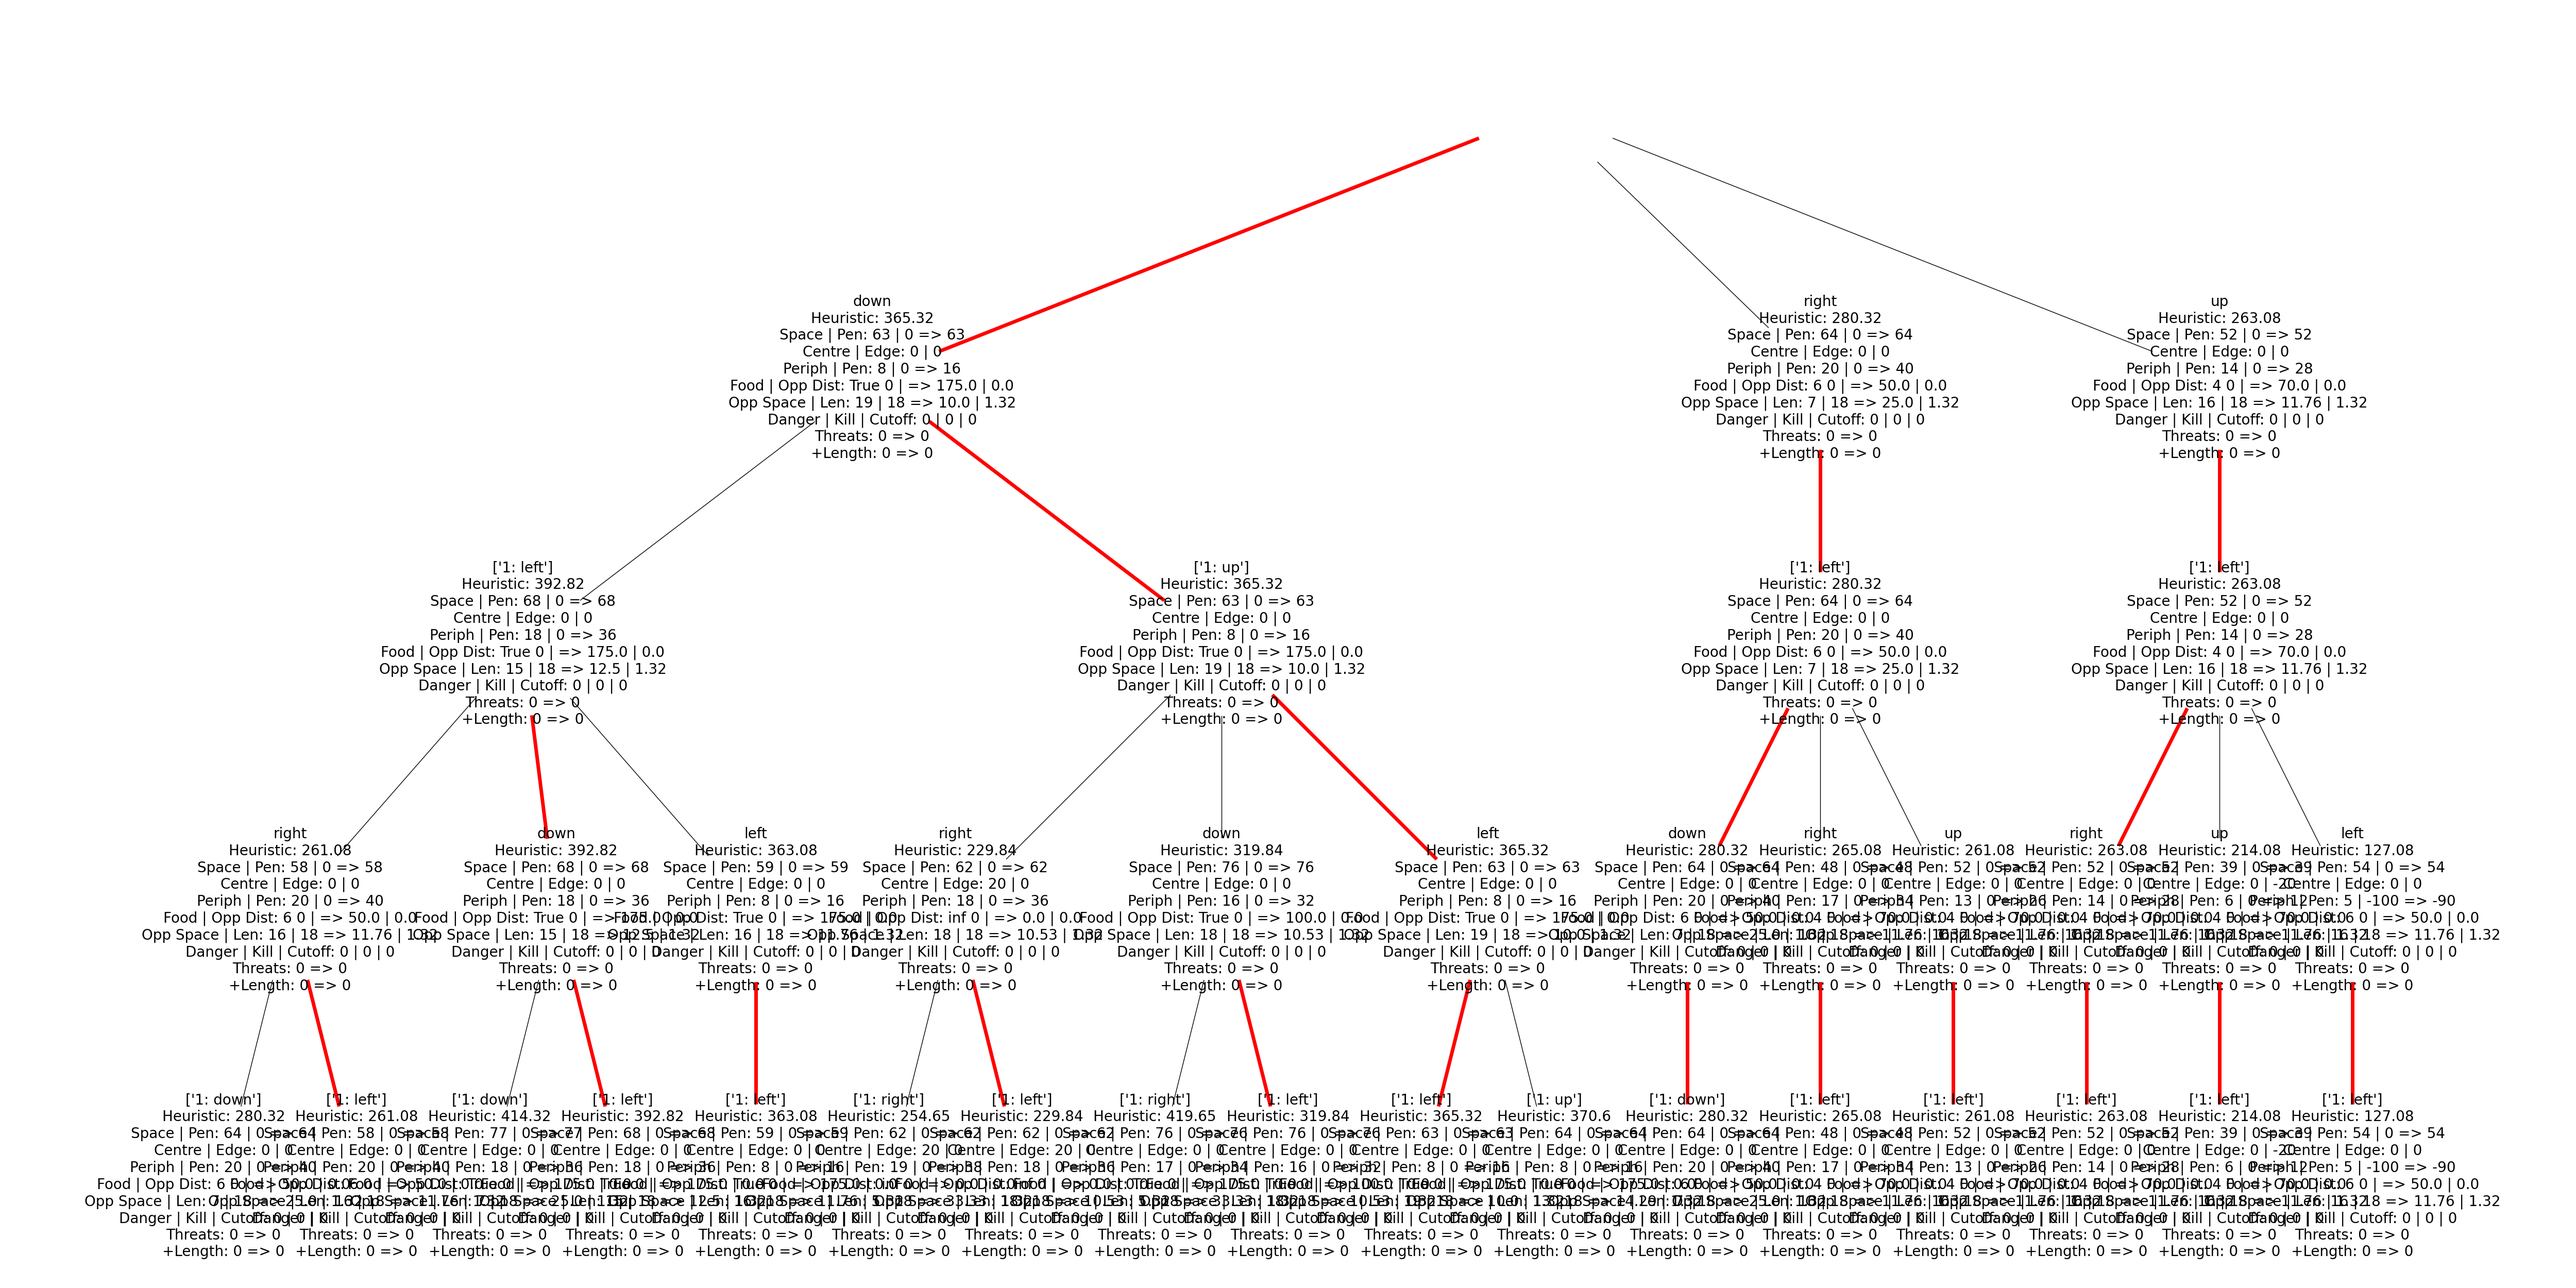
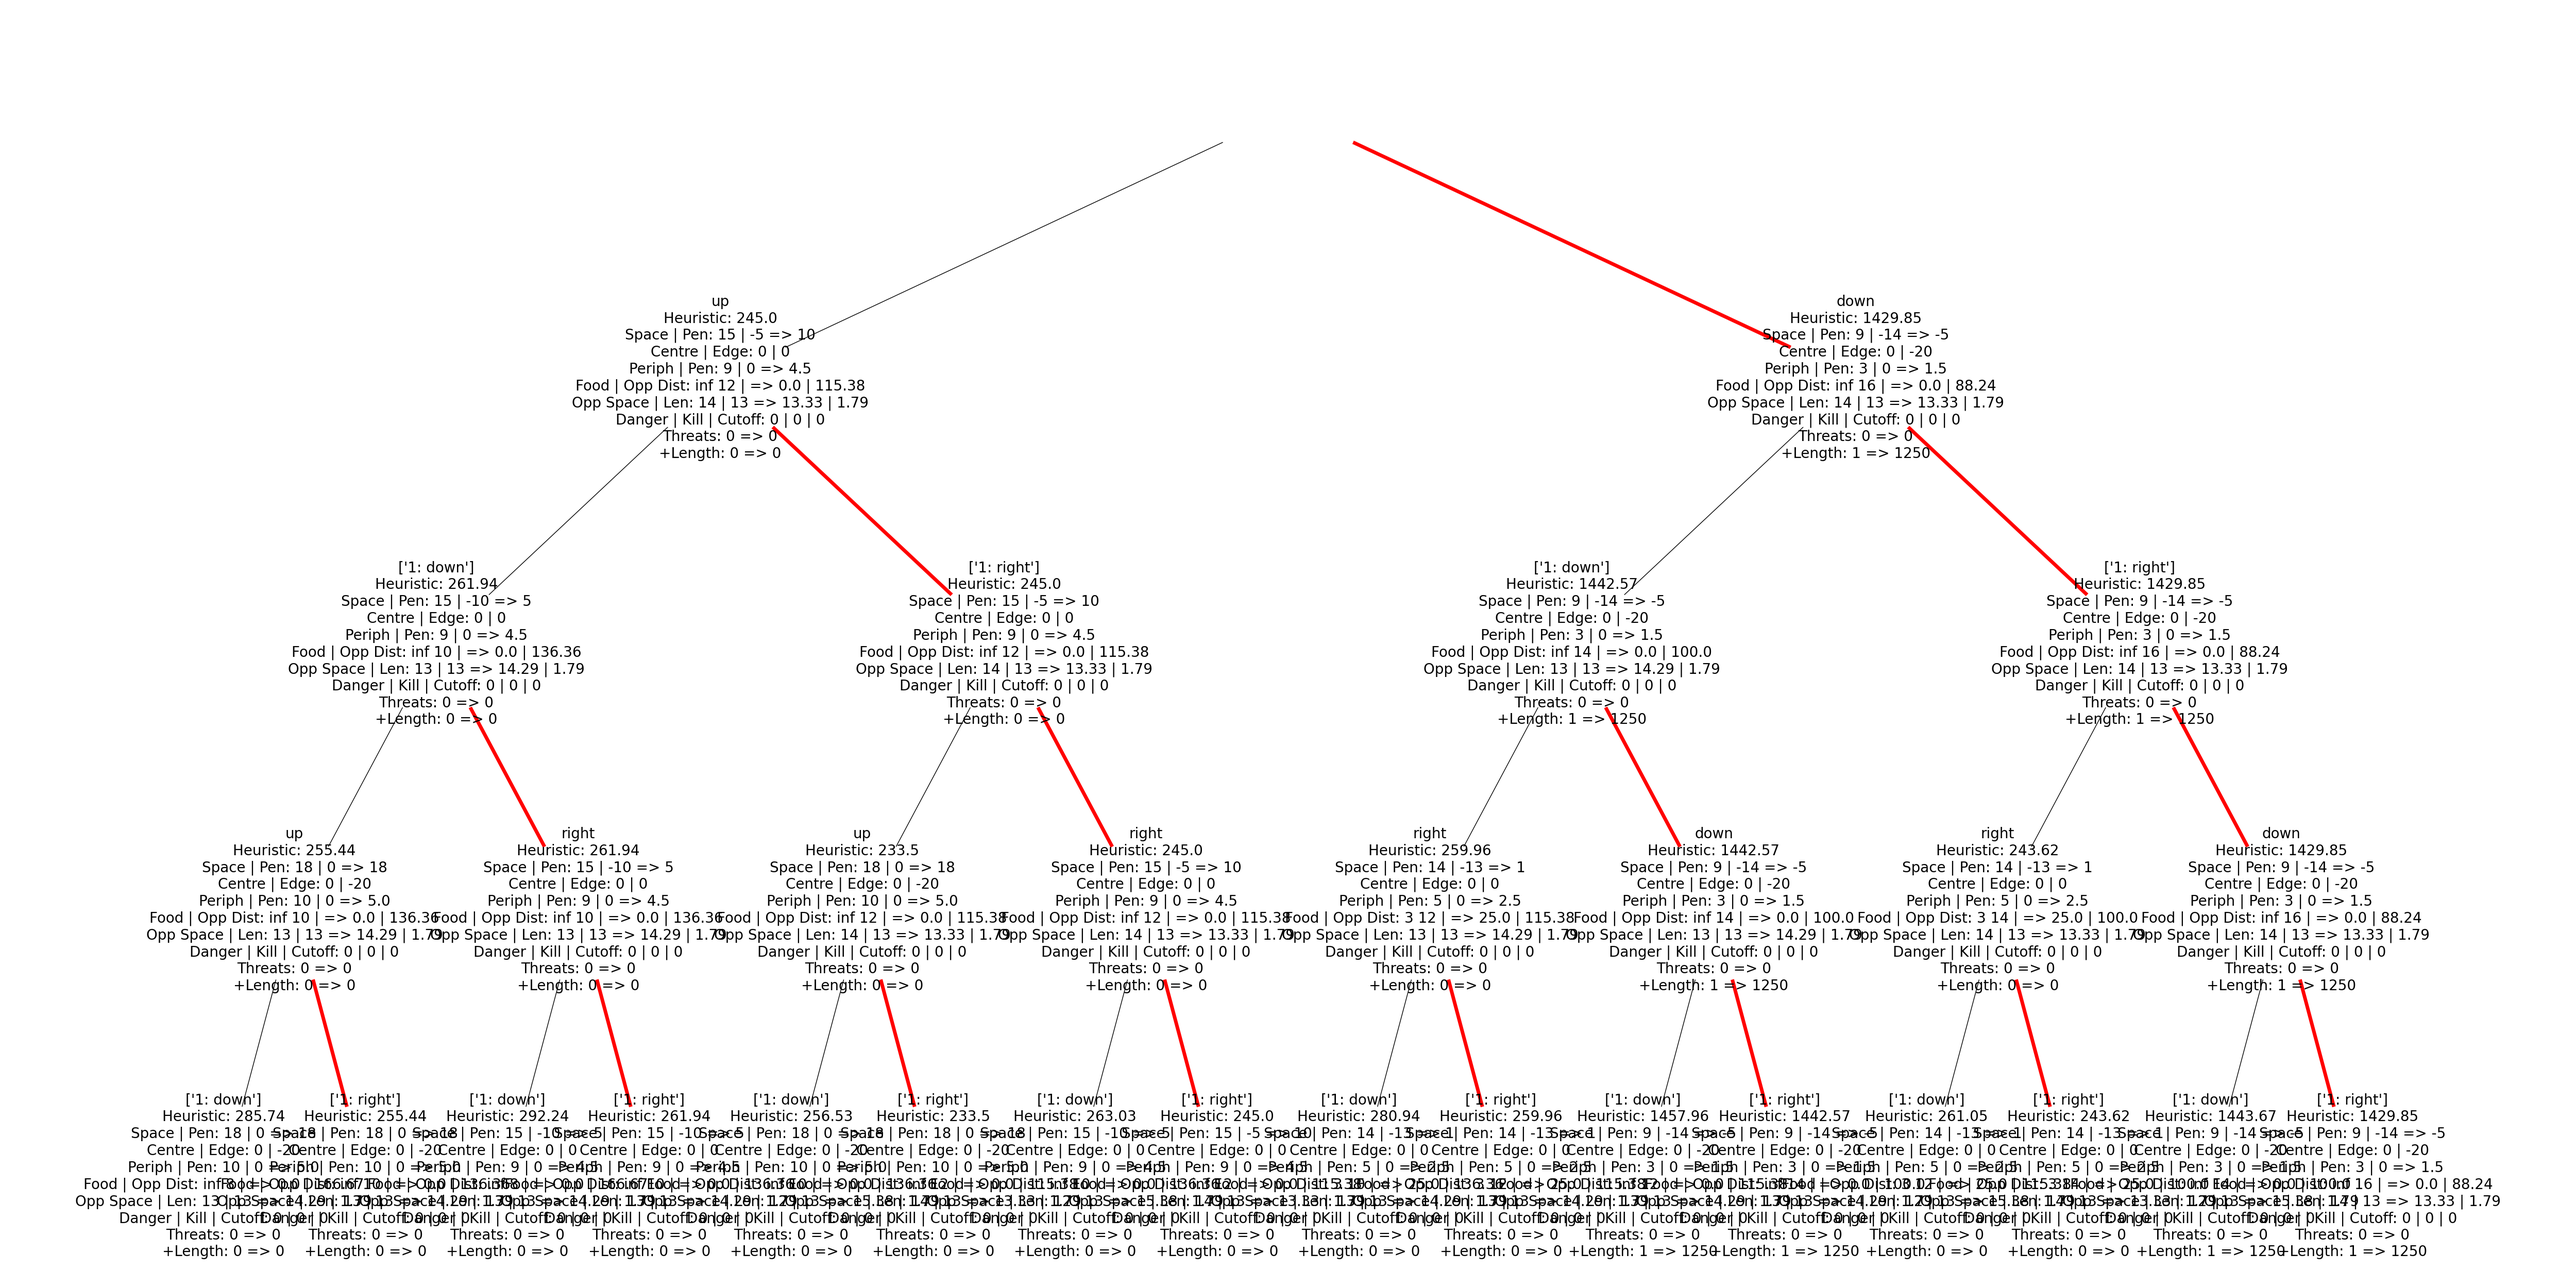
Weird edge case timeout with food

diff --git a/battlesnake_test.py b/battlesnake_test.py
@@ -2,8 +2,7 @@ from snake_engine import *
 
 game_state={"game":{"id":"d07d4832-3fbc-4df7-bc1f-84909baa01a2","ruleset":{"name":"standard","version":"cli","settings":{"foodSpawnChance":15,"minimumFood":1,"hazardDamagePerTurn":14,"hazardMap":"","hazardMapAuthor":"","royale":{"shrinkEveryNTurns":25},"squad":{"allowBodyCollisions":False,"sharedElimination":False,"sharedHealth":False,"sharedLength":False}}},"map":"standard","timeout":500,"source":""},"turn":8,"board":{"height":11,"width":11,"snakes":[{"id":"794984a9-316f-437a-a5e7-123afa1799b9","name":"Rick2","latency":"150","health":98,"body":[{"x":3,"y":1},{"x":2,"y":1},{"x":2,"y":0},{"x":1,"y":0}],"head":{"x":3,"y":1},"length":4,"shout":"","squad":"","customizations":{"color":"#00ff00","head":"shark","tail":"coffee"}},{"id":"a8d162b1-df10-4523-829b-6c751989810c","name":"Rick3","latency":"212","health":100,"body":[{"x":10,"y":6},{"x":10,"y":7},{"x":10,"y":8},{"x":10,"y":9},{"x":10,"y":9}],"head":{"x":10,"y":6},"length":5,"shout":"","squad":"","customizations":{"color":"#00ff00","head":"shark","tail":"coffee"}},{"id":"c653eaec-5707-482a-abf2-702d6ba76fd7","name":"JonK","latency":"22","health":96,"body":[{"x":5,"y":1},{"x":4,"y":1},{"x":4,"y":0},{"x":5,"y":0},{"x":6,"y":0}],"head":{"x":5,"y":1},"length":5,"shout":"","squad":"","customizations":{"color":"#B7410E","head":"sleepy","tail":"offroad"}},{"id":"bbf93a5d-e566-49dd-81f6-3bea14ecc43e","name":"JonK3","latency":"21","health":98,"body":[{"x":0,"y":8},{"x":0,"y":9},{"x":1,"y":9},{"x":1,"y":8},{"x":2,"y":8}],"head":{"x":0,"y":8},"length":5,"shout":"","squad":"","customizations":{"color":"#B7410E","head":"sleepy","tail":"offroad"}},{"id":"5c1999e6-c1be-4593-839a-4c50cd971c20","name":"Rick4","latency":"199","health":100,"body":[{"x":5,"y":5},{"x":5,"y":4},{"x":5,"y":3},{"x":5,"y":3}],"head":{"x":5,"y":5},"length":4,"shout":"","squad":"","customizations":{"color":"#00ff00","head":"shark","tail":"coffee"}},{"id":"86b77068-eaf5-46ff-a934-be44318ca9ba","name":"Nightwing","latency":"480","health":94,"body":[{"x":7,"y":7},{"x":7,"y":8},{"x":8,"y":8},{"x":8,"y":9}],"head":{"x":7,"y":7},"length":4,"shout":"","squad":"","customizations":{"color":"#3333ff","head":"ski","tail":"mystic-moon"}},{"id":"d4972a83-7849-4d3f-be9b-1208252347df","name":"Rick","latency":"221","health":92,"body":[{"x":9,"y":5},{"x":9,"y":6},{"x":8,"y":6}],"head":{"x":9,"y":5},"length":3,"shout":"","squad":"","customizations":{"color":"#00ff00","head":"shark","tail":"coffee"}},{"id":"f1a83c20-e9c4-4bec-9502-0290ad260bae","name":"JonK2","latency":"21","health":94,"body":[{"x":1,"y":3},{"x":1,"y":2},{"x":2,"y":2},{"x":2,"y":3}],"head":{"x":1,"y":3},"length":4,"shout":"","squad":"","customizations":{"color":"#B7410E","head":"sleepy","tail":"offroad"}}],"food":[{"x":0,"y":5}],"hazards":[]},"you":{"id":"a8d162b1-df10-4523-829b-6c751989810c","name":"Rick3","latency":"212","health":100,"body":[{"x":10,"y":6},{"x":10,"y":7},{"x":10,"y":8},{"x":10,"y":9},{"x":10,"y":9}],"head":{"x":10,"y":6},"length":5,"shout":"","squad":"","customizations":{"color":"#00ff00","head":"shark","tail":"coffee"}}}
 # Time-consuming
-game_state = {"game":{"id":"a6f9bda0-7c74-480c-b6b3-613090ca0a04","ruleset":{"name":"standard","version":"cli","settings":{"foodSpawnChance":15,"minimumFood":1,"hazardDamagePerTurn":14,"hazardMap":"","hazardMapAuthor":"","royale":{"shrinkEveryNTurns":25},"squad":{"allowBodyCollisions":False,"sharedElimination":False,"sharedHealth":False,"sharedLength":False}}},"map":"standard","timeout":500,"source":""},"turn":6,"board":{"height":11,"width":11,"snakes":[{"id":"60a2c9a4-31b0-4235-a955-8473518e301a","name":"Jesse","latency":"43","health":94,"body":[{"x":4,"y":8},{"x":5,"y":8},{"x":6,"y":8}],"head":{"x":4,"y":8},"length":3,"shout":"","squad":"","customizations":{"color":"#E04C07","head":"missile","tail":"nr-booster"}},{"id":"5b3eb748-b5fd-491a-a6a3-9c4bbcd1594c","name":"JonK","latency":"28","health":96,"body":[{"x":4,"y":2},{"x":4,"y":1},{"x":4,"y":0},{"x":3,"y":0}],"head":{"x":4,"y":2},"length":4,"shout":"","squad":"","customizations":{"color":"#B7410E","head":"sleepy","tail":"offroad"}},{"id":"30e79a31-443a-4dd2-a8f9-33a1649fe23f","name":"Einar","latency":"82","health":98,"body":[{"x":0,"y":4},{"x":0,"y":5},{"x":0,"y":6},{"x":0,"y":7},{"x":0,"y":8}],"head":{"x":0,"y":4},"length":5,"shout":"","squad":"","customizations":{"color":"#4A412A","head":"shades","tail":"sharp"}},{"id":"eac59954-da7b-4a94-a03b-83d3538be3af","name":"Tiana","latency":"28","health":94,"body":[{"x":5,"y":3},{"x":6,"y":3},{"x":7,"y":3}],"head":{"x":5,"y":3},"length":3,"shout":"","squad":"","customizations":{"color":"#FF66CC","head":"scarf","tail":"mystic-moon"}},{"id":"14216d48-a339-44e2-a483-d4175f4bcba6","name":"Nightwing","latency":"266","health":96,"body":[{"x":9,"y":9},{"x":9,"y":10},{"x":8,"y":10},{"x":7,"y":10}],"head":{"x":9,"y":9},"length":4,"shout":"","squad":"","customizations":{"color":"#3333ff","head":"ski","tail":"mystic-moon"}},{"id":"7004bdc9-3d20-4769-a1b7-157a3d26abb7","name":"Rick","latency":"114","health":98,"body":[{"x":6,"y":4},{"x":6,"y":5},{"x":5,"y":5},{"x":4,"y":5}],"head":{"x":6,"y":4},"length":4,"shout":"","squad":"","customizations":{"color":"#00ff00","head":"shark","tail":"coffee"}},{"id":"6170454d-dd12-44fd-87bb-7b0a5c11cdd1","name":"Matt","latency":"215","health":98,"body":[{"x":7,"y":1},{"x":6,"y":1},{"x":6,"y":0},{"x":7,"y":0}],"head":{"x":7,"y":1},"length":4,"shout":"","squad":"","customizations":{"color":"#1f9490","head":"default","tail":"default"}},{"id":"c30ef5bd-c9c9-4856-a658-556ec789bc98","name":"Glynn","latency":"45","health":94,"body":[{"x":9,"y":5},{"x":8,"y":5},{"x":7,"y":5}],"head":{"x":9,"y":5},"length":3,"shout":"","squad":"","customizations":{"color":"#6600ff","head":"all-seeing","tail":"weight"}}],"food":[{"x":10,"y":8},{"x":10,"y":2},{"x":10,"y":4}],"hazards":[]},"you":{"id":"eac59954-da7b-4a94-a03b-83d3538be3af","name":"Tiana","latency":"28","health":94,"body":[{"x":5,"y":3},{"x":6,"y":3},{"x":7,"y":3}],"head":{"x":5,"y":3},"length":3,"shout":"","squad":"","customizations":{"color":"#FF66CC","head":"scarf","tail":"mystic-moon"}}}
-
+game_state = {"game":{"id":"ee187fa6-1b1a-4ced-9783-f928d75e5b8c","ruleset":{"name":"standard","version":"?","settings":{"foodSpawnChance":15,"minimumFood":1}},"map":"standard","timeout":500,"source":"custom"},"turn":122,"board":{"width":11,"height":11,"food":[{"x":0,"y":0}],"hazards":[],"snakes":[{"id":"gs_v3QBMtmqBWRxYfmFyDHtJM88","name":"NightwingV2","health":100,"body":[{"x":0,"y":2},{"x":1,"y":2},{"x":2,"y":2},{"x":3,"y":2},{"x":3,"y":3},{"x":4,"y":3},{"x":4,"y":4},{"x":4,"y":5},{"x":5,"y":5},{"x":6,"y":5},{"x":7,"y":5},{"x":8,"y":5},{"x":8,"y":4},{"x":8,"y":4}],"latency":109,"head":{"x":0,"y":2},"length":14,"shout":"","squad":"","customizations":{"color":"#1f51ff","head":"silly","tail":"mlh-gene"}},{"id":"gs_mBj6TQXj3gq7rTmwx6tSWWy6","name":"Nightwing","health":96,"body":[{"x":5,"y":9},{"x":4,"y":9},{"x":3,"y":9},{"x":3,"y":8},{"x":4,"y":8},{"x":4,"y":7},{"x":3,"y":7},{"x":3,"y":6},{"x":4,"y":6},{"x":5,"y":6},{"x":6,"y":6},{"x":7,"y":6},{"x":8,"y":6}],"latency":118,"head":{"x":5,"y":9},"length":13,"shout":"","squad":"","customizations":{"color":"#3333ff","head":"ski","tail":"mystic-moon"}}]},"you":{"id":"gs_v3QBMtmqBWRxYfmFyDHtJM88","name":"NightwingV2","health":100,"body":[{"x":0,"y":2},{"x":1,"y":2},{"x":2,"y":2},{"x":3,"y":2},{"x":3,"y":3},{"x":4,"y":3},{"x":4,"y":4},{"x":4,"y":5},{"x":5,"y":5},{"x":6,"y":5},{"x":7,"y":5},{"x":8,"y":5},{"x":8,"y":4},{"x":8,"y":4}],"latency":109,"head":{"x":0,"y":2},"length":14,"shout":"","squad":"","customizations":{"color":"#1f51ff","head":"silly","tail":"mlh-gene"}}}
 clock_in = time.time_ns()
 game = Battlesnake(game_state, debugging=False)
 print(game.optimal_move())

diff --git a/debugging.py b/debugging.py
@@ -62,6 +62,7 @@ game_state={"game":{"id":"28ed1cda-afe6-4d05-a566-8d2cf0a8f2af","ruleset":{"name
 
 game_state ={"game":{"id":"db849348-c972-4dfa-a337-fa2dacbaddc3","ruleset":{"name":"standard","version":"?","settings":{"foodSpawnChance":15,"minimumFood":1}},"map":"standard","timeout":500,"source":"ladder"},"turn":94,"board":{"width":11,"height":11,"food":[{"x":4,"y":10}],"hazards":[],"snakes":[{"id":"gs_3DTPmqMyVXqPwg69gVvbYP7b","name":"ISO_V2","health":14,"body":[{"x":1,"y":5},{"x":1,"y":4},{"x":2,"y":4},{"x":3,"y":4},{"x":3,"y":3}],"latency":46,"head":{"x":1,"y":5},"length":5,"shout":"wrap False","squad":"","customizations":{"color":"#33ff33","head":"gamer","tail":"rocket"}},{"id":"gs_QqgcYYKhqtdWkFpc7wWWtgpV","name":"Nightwing","health":100,"body":[{"x":0,"y":10},{"x":0,"y":9},{"x":0,"y":8},{"x":1,"y":8},{"x":1,"y":7},{"x":2,"y":7},{"x":2,"y":6},{"x":2,"y":5},{"x":2,"y":5}],"latency":138,"head":{"x":0,"y":10},"length":9,"shout":"","squad":"","customizations":{"color":"#1f51ff","head":"evil","tail":"mlh-gene"}},{"id":"gs_BV8HgbfCgFpfPy68mgdWP7dS","name":"Frank The Tank","health":98,"body":[{"x":3,"y":7},{"x":4,"y":7},{"x":5,"y":7},{"x":5,"y":6},{"x":6,"y":6},{"x":6,"y":5},{"x":5,"y":5},{"x":4,"y":5},{"x":4,"y":4},{"x":4,"y":3},{"x":5,"y":3},{"x":5,"y":2}],"latency":11,"head":{"x":3,"y":7},"length":12,"shout":"Hi!","squad":"","customizations":{"color":"#ffff33","head":"whale","tail":"dragon"}}]},"you":{"id":"gs_QqgcYYKhqtdWkFpc7wWWtgpV","name":"Nightwing","health":100,"body":[{"x":0,"y":10},{"x":0,"y":9},{"x":0,"y":8},{"x":1,"y":8},{"x":1,"y":7},{"x":2,"y":7},{"x":2,"y":6},{"x":2,"y":5},{"x":2,"y":5}],"latency":138,"head":{"x":0,"y":10},"length":9,"shout":"","squad":"","customizations":{"color":"#1f51ff","head":"evil","tail":"mlh-gene"}}}
 game_state = {"game":{"id":"8533c7c3-8372-4d85-acc4-4954d5c0aa4b","ruleset":{"name":"standard","version":"cli","settings":{"foodSpawnChance":15,"minimumFood":1,"hazardDamagePerTurn":14,"hazardMap":"","hazardMapAuthor":"","royale":{"shrinkEveryNTurns":25},"squad":{"allowBodyCollisions":False,"sharedElimination":False,"sharedHealth":False,"sharedLength":False}}},"map":"standard","timeout":500,"source":""},"turn":178,"board":{"height":11,"width":11,"snakes":[{"id":"30b31eb5-c9cf-48e7-9c40-b3824fff2cc3","name":"Nightwing","latency":"351","health":100,"body":[{"x":6,"y":8},{"x":5,"y":8},{"x":4,"y":8},{"x":3,"y":8},{"x":3,"y":7},{"x":2,"y":7},{"x":1,"y":7},{"x":0,"y":7},{"x":0,"y":6},{"x":0,"y":5},{"x":0,"y":4},{"x":0,"y":3},{"x":0,"y":2},{"x":1,"y":2},{"x":1,"y":3},{"x":1,"y":3}],"head":{"x":6,"y":8},"length":16,"shout":"","squad":"","customizations":{"color":"#3333ff","head":"ski","tail":"mystic-moon"}},{"id":"46b6ee1d-6ed1-472b-ab03-53fff9c83431","name":"JonK","latency":"23","health":96,"body":[{"x":9,"y":3},{"x":9,"y":2},{"x":9,"y":1},{"x":10,"y":1},{"x":10,"y":0},{"x":9,"y":0},{"x":8,"y":0},{"x":7,"y":0},{"x":6,"y":0},{"x":5,"y":0},{"x":4,"y":0},{"x":4,"y":1},{"x":4,"y":2},{"x":4,"y":3},{"x":4,"y":4},{"x":5,"y":4},{"x":6,"y":4},{"x":7,"y":4}],"head":{"x":9,"y":3},"length":18,"shout":"","squad":"","customizations":{"color":"#B7410E","head":"sleepy","tail":"offroad"}}],"food":[{"x":9,"y":10},{"x":10,"y":9}],"hazards":[]},"you":{"id":"ad40b1ef-e988-45ab-a06d-ad3f0e060f91","name":"Glynn","latency":"135","health":88,"body":[{"x":6,"y":2},{"x":5,"y":2},{"x":4,"y":2}],"head":{"x":6,"y":2},"length":3,"shout":"","squad":"","customizations":{"color":"#6600ff","head":"all-seeing","tail":"weight"}}}
+game_state = {"game":{"id":"ee187fa6-1b1a-4ced-9783-f928d75e5b8c","ruleset":{"name":"standard","version":"?","settings":{"foodSpawnChance":15,"minimumFood":1}},"map":"standard","timeout":500,"source":"custom"},"turn":122,"board":{"width":11,"height":11,"food":[{"x":0,"y":0}],"hazards":[],"snakes":[{"id":"gs_v3QBMtmqBWRxYfmFyDHtJM88","name":"NightwingV2","health":100,"body":[{"x":0,"y":2},{"x":1,"y":2},{"x":2,"y":2},{"x":3,"y":2},{"x":3,"y":3},{"x":4,"y":3},{"x":4,"y":4},{"x":4,"y":5},{"x":5,"y":5},{"x":6,"y":5},{"x":7,"y":5},{"x":8,"y":5},{"x":8,"y":4},{"x":8,"y":4}],"latency":109,"head":{"x":0,"y":2},"length":14,"shout":"","squad":"","customizations":{"color":"#1f51ff","head":"silly","tail":"mlh-gene"}},{"id":"gs_mBj6TQXj3gq7rTmwx6tSWWy6","name":"Nightwing","health":96,"body":[{"x":5,"y":9},{"x":4,"y":9},{"x":3,"y":9},{"x":3,"y":8},{"x":4,"y":8},{"x":4,"y":7},{"x":3,"y":7},{"x":3,"y":6},{"x":4,"y":6},{"x":5,"y":6},{"x":6,"y":6},{"x":7,"y":6},{"x":8,"y":6}],"latency":118,"head":{"x":5,"y":9},"length":13,"shout":"","squad":"","customizations":{"color":"#3333ff","head":"ski","tail":"mystic-moon"}}]},"you":{"id":"gs_v3QBMtmqBWRxYfmFyDHtJM88","name":"NightwingV2","health":100,"body":[{"x":0,"y":2},{"x":1,"y":2},{"x":2,"y":2},{"x":3,"y":2},{"x":3,"y":3},{"x":4,"y":3},{"x":4,"y":4},{"x":4,"y":5},{"x":5,"y":5},{"x":6,"y":5},{"x":7,"y":5},{"x":8,"y":5},{"x":8,"y":4},{"x":8,"y":4}],"latency":109,"head":{"x":0,"y":2},"length":14,"shout":"","squad":"","customizations":{"color":"#1f51ff","head":"silly","tail":"mlh-gene"}}}
 
 b = Battlesnake(game_state, debugging=True)
 clock_in = time.time_ns()

diff --git a/Board.py b/Board.py
@@ -193,6 +193,8 @@ class Board:
         for temp_nodes in temp_added_nodes:
             temp_graph.remove_node(temp_nodes)
 
+        print(manhattan_approx, shortest)
+
         if get_path:
             return shortest, path
         else:
